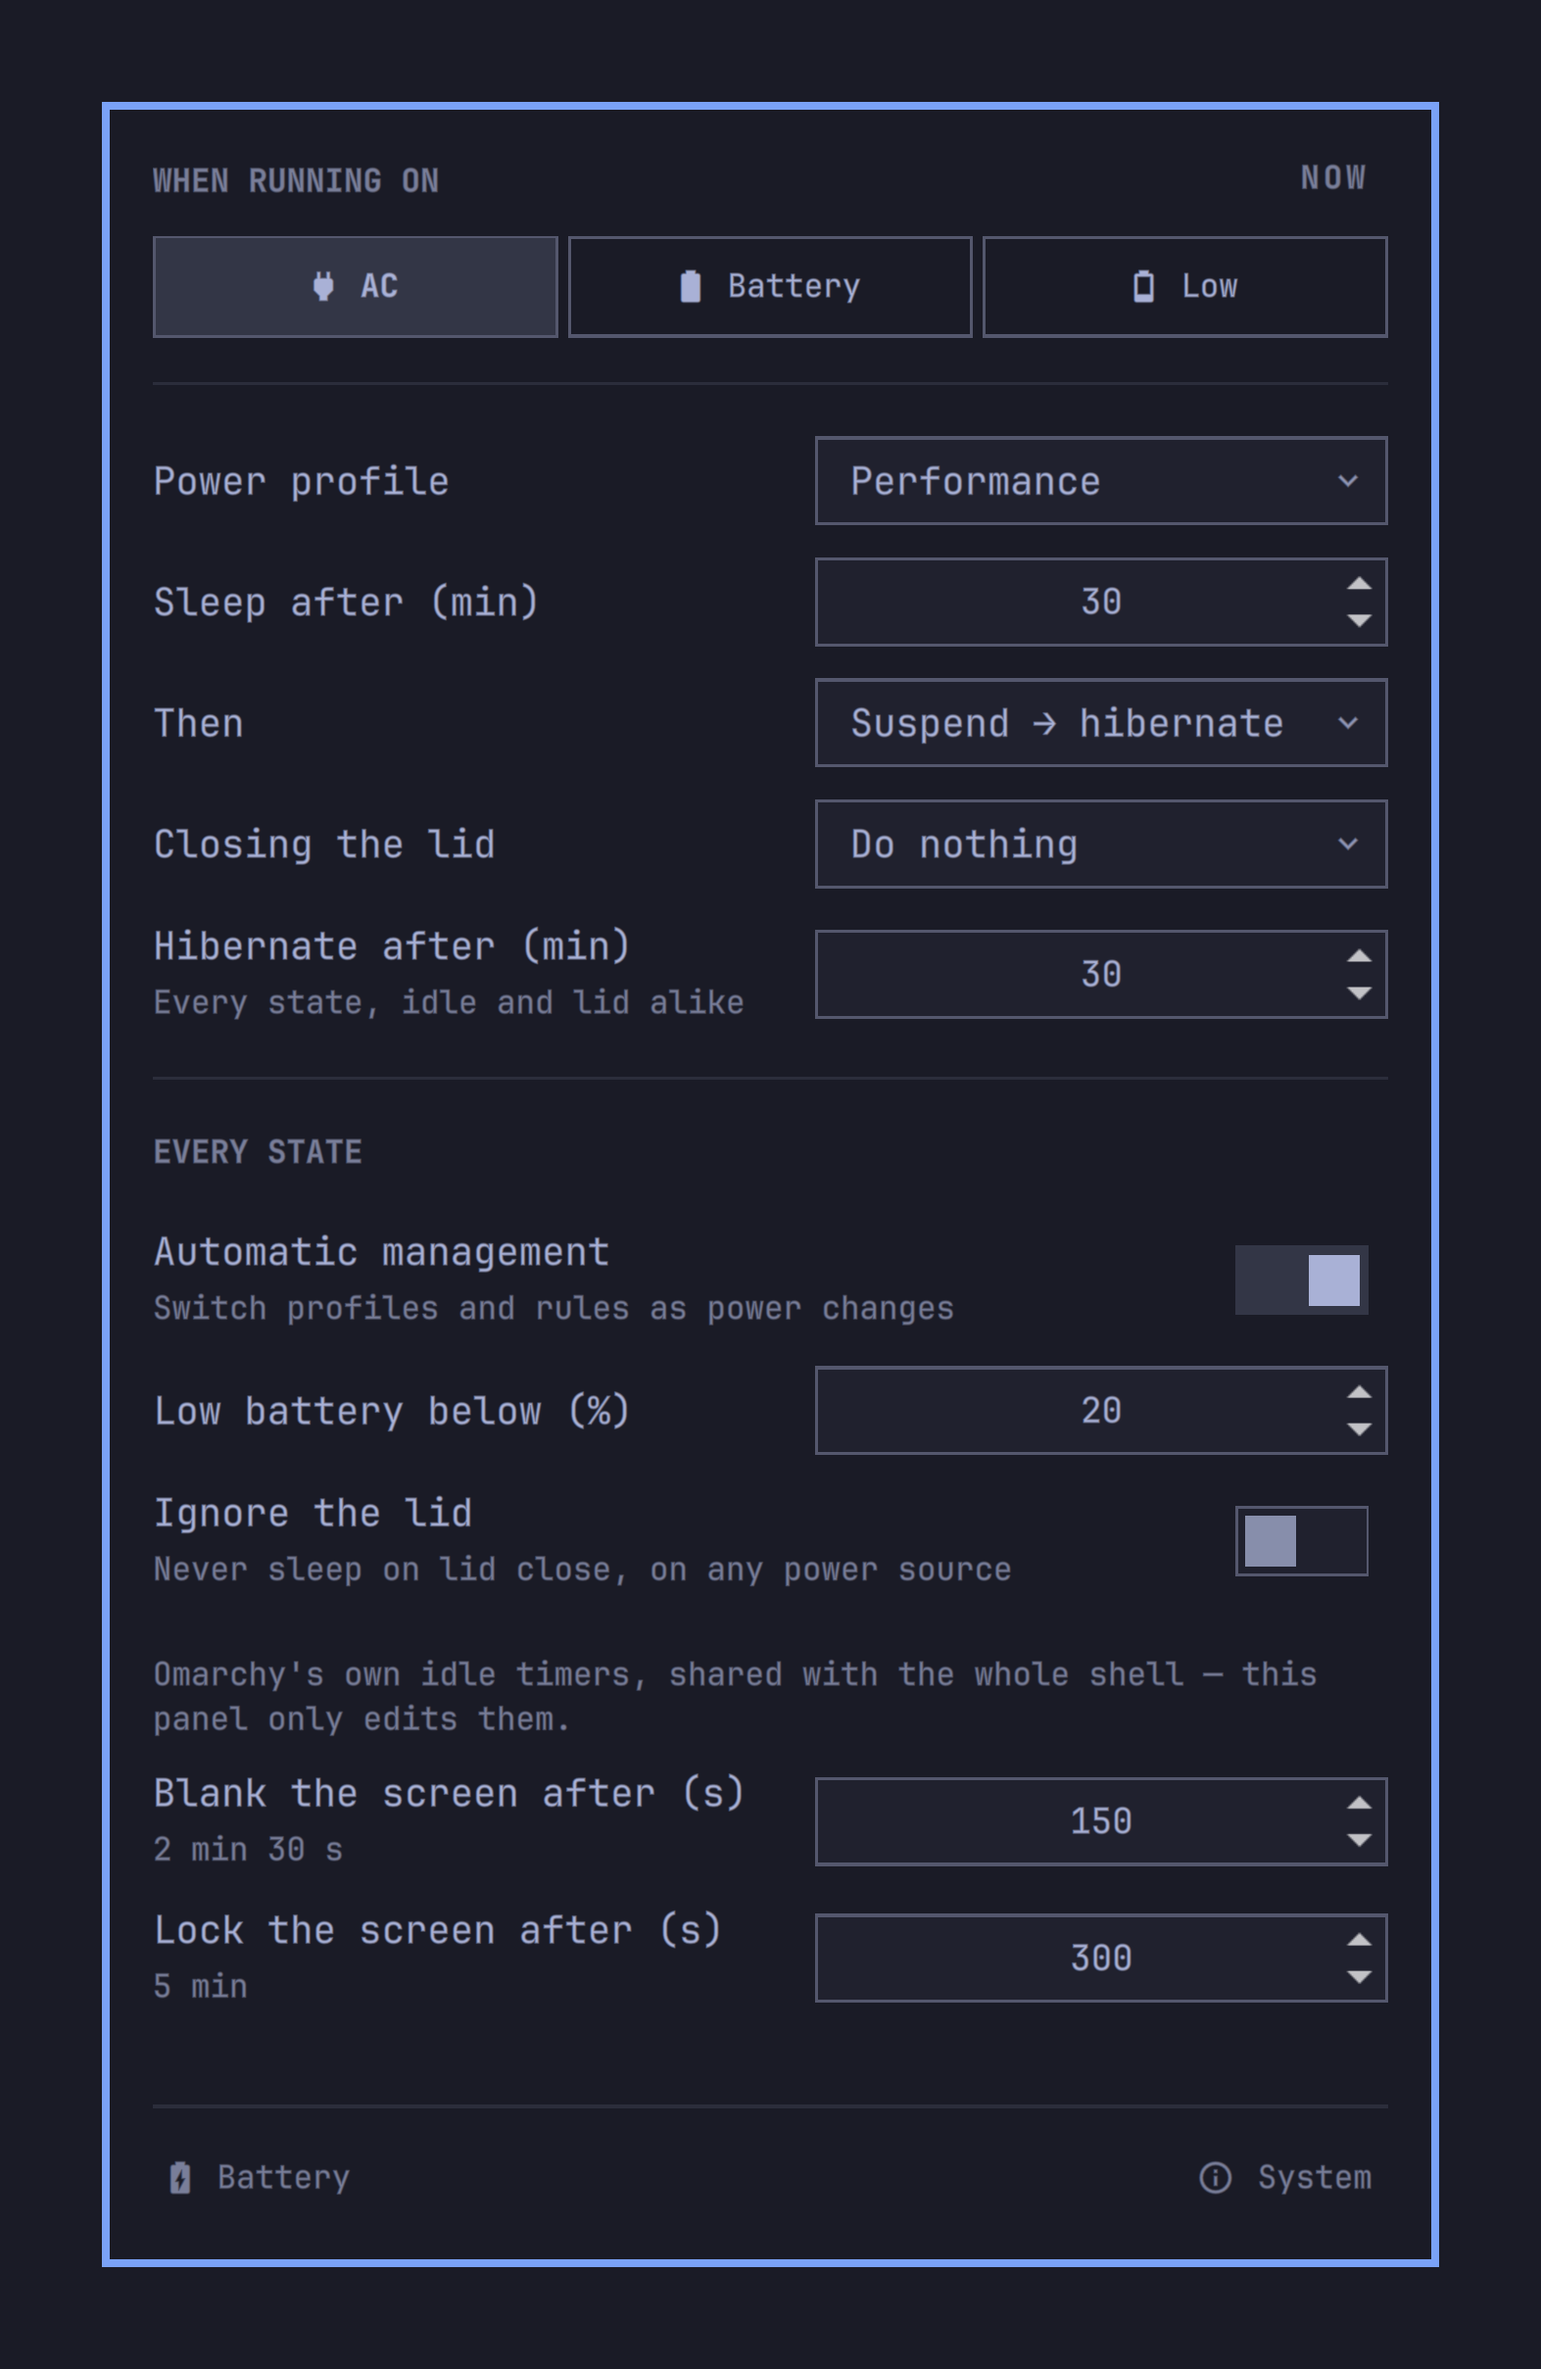
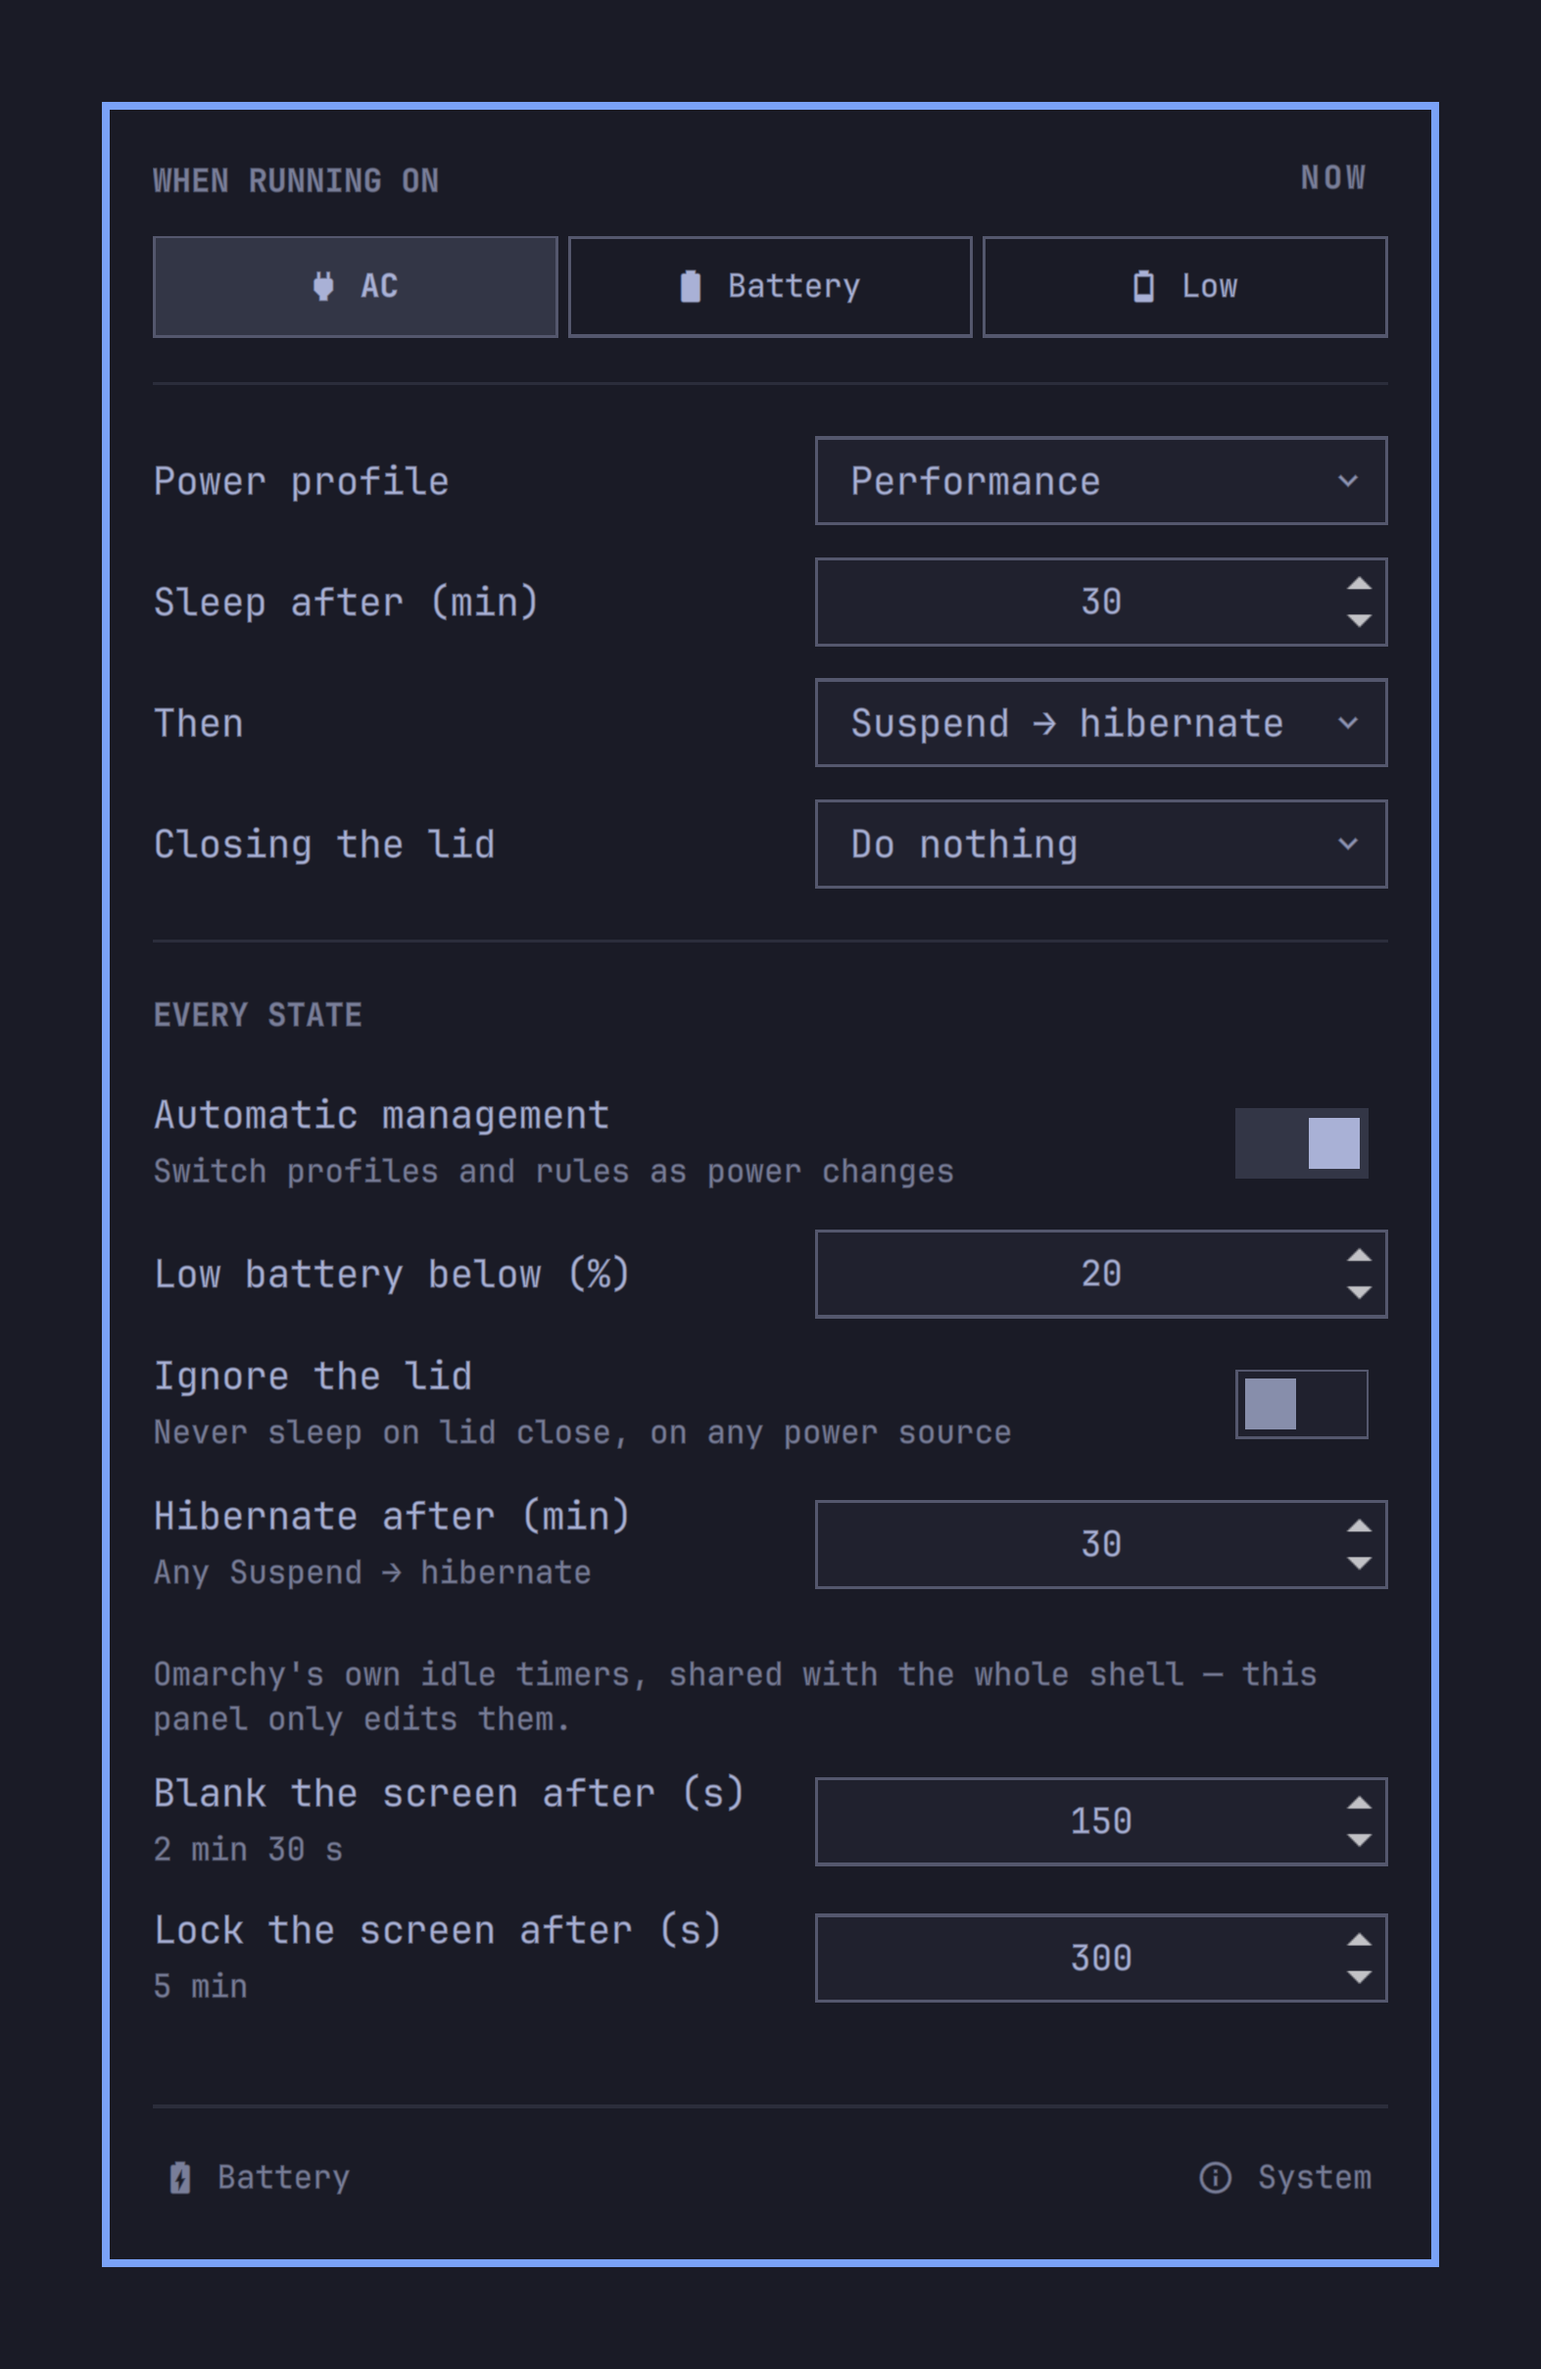
refactor(panel): move the hibernate delay into EVERY STATE
It was the only global value left inside the per-state ruleset, so
switching AC → Battery → Low left it sitting unchanged while every row
above it changed — which reads as a bug. The two Omarchy timers landing in
EVERY STATE made it the odd one out.

Its visibility rule had to change with it. It was per-state — shown when
*this* state's idle or lid action selected suspend-then-hibernate — and a
global field vanishing because you clicked a different state chip would be
worse under an EVERY STATE heading than the old placement was. It now asks
whether any state hibernates at all, and still goes away entirely when
nothing does (including when the lid is ignored, which takes every lid
action out of play).

Also shortens the row's description: NumberRow's label column is only about
230px because the field takes a fixed 180, so anything longer elides.

diff --git a/Panel.qml b/Panel.qml
@@ -686,6 +686,23 @@ Panel {
   readonly property bool shellIdleDirty: canEditShellIdle
     && (screensaverStaged !== liveScreensaverSecs || lockStaged !== liveLockSecs)
 
+  // Whether any rule at all can reach suspend-then-hibernate, which is the
+  // only action that reads HibernateDelaySec. Asked across every state rather
+  // than the selected one: the delay is a single global value, so a field that
+  // appeared and vanished with the state picker would be describing itself
+  // wrongly.
+  readonly property bool anyHibernateAction: {
+    var _ = root.editConfig
+    var states = Model.powerStates()
+    var lidLive = root.getVal("lid.ignoreLidClose", false) !== true
+    for (var i = 0; i < states.length; i++) {
+      var key = states[i].key
+      if (root.getVal("idle." + key + ".afterSleep", "") === "suspend-then-hibernate") return true
+      if (lidLive && root.getVal("lid." + key + ".action", "") === "suspend-then-hibernate") return true
+    }
+    return false
+  }
+
   // The shortest idle-sleep timeout any state can actually reach, in seconds.
   // Lock is one global value, so it is the shortest sleep it has to beat —
   // states set to "Do nothing" or to no timeout never sleep and do not count.
@@ -1828,24 +1845,6 @@ Panel {
           options: Model.actionOptions()
           configKey: "lid." + root.ruleState + ".action"
         }
-
-        // Suspend → hibernate is the only action that reads HibernateDelaySec,
-        // and either of the two rows above can select it — so the row appears
-        // for both, and sits under the lid rather than jumping between them.
-        // The value itself is global: logind has one HibernateDelaySec.
-        NumberRow {
-          label: "Hibernate after (min)"
-          description: "Every state, idle and lid alike"
-          visible: {
-            var _ = root.editConfig
-            return root.getVal("idle." + root.ruleState + ".afterSleep", "") === "suspend-then-hibernate"
-              || (root.getVal("lid.ignoreLidClose", false) !== true
-                  && root.getVal("lid." + root.ruleState + ".action", "") === "suspend-then-hibernate")
-          }
-          from: 1
-          to: 1440
-          configKey: "hibernateAfterMinutes"
-        }
       }
 
       PanelSeparator { foreground: root.fg }
@@ -1887,6 +1886,17 @@ Panel {
           description: "Apply the per-state brightness above"
           visible: root.showAutoBrightness
           configKey: "brightness.auto"
+        }
+
+        // Global because logind has exactly one HibernateDelaySec, so it sits
+        // with the other globals rather than inside a state's ruleset.
+        NumberRow {
+          label: "Hibernate after (min)"
+          description: "Any Suspend → hibernate"
+          visible: root.anyHibernateAction
+          from: 1
+          to: 1440
+          configKey: "hibernateAfterMinutes"
         }
 
         // ---------- Omarchy's screen timers ----------

diff --git a/README.md b/README.md
@@ -55,7 +55,9 @@ The power-draw trace is sampled from UPower's live `changeRate` every five secon
 ---
 
 ### ⚙ Rules
-All of the automation, one power state at a time. Pick **AC**, **Battery**, or **Low**, and the tab shows that state's complete ruleset: power profile, screen brightness, idle timeout, what happens when it expires, and what the lid does. The hibernate delay only appears when the idle action or the lid action is *Suspend → hibernate*, because that is the only action that uses it — and it is a single system-wide number, since `HibernateDelaySec` is one setting for the whole machine. Global switches (automatic management, the low-battery threshold, ignore-the-lid) sit below the separator, along with Omarchy's own screensaver and lock timeouts — those two live in `~/.config/omarchy/shell.json` and are written through the shell's own config API, never derived from anything here. The lock field is capped a minute short of the soonest sleep timeout, and the panel says so when an existing config already locks later than it sleeps: the machine would suspend before finishing the lock and resume unlocked. Edits are staged and land together on **Apply changes**.
+All of the automation, one power state at a time. Pick **AC**, **Battery**, or **Low**, and the tab shows that state's complete ruleset: power profile, screen brightness, idle timeout, what happens when it expires, and what the lid does. Global settings sit below the separator: automatic management, the low-battery threshold, ignore-the-lid, and the hibernate delay — that last one is global because `HibernateDelaySec` is a single setting for the whole machine, and it appears only when some rule actually selects *Suspend → hibernate*, idle or lid.
+
+Last in that section are Omarchy's own screensaver and lock timeouts. Those two live in `~/.config/omarchy/shell.json`, are written through the shell's own config API, and are never derived from anything here. The lock field is capped a minute short of the soonest sleep timeout, and the panel says so when an existing config already locks later than it sleeps: the machine would otherwise suspend before finishing the lock and resume unlocked. Edits are staged and land together on **Apply changes**.
 
 <p align="center">
   <img src="assets/rules.png" width="560" alt="Rules tab" />
